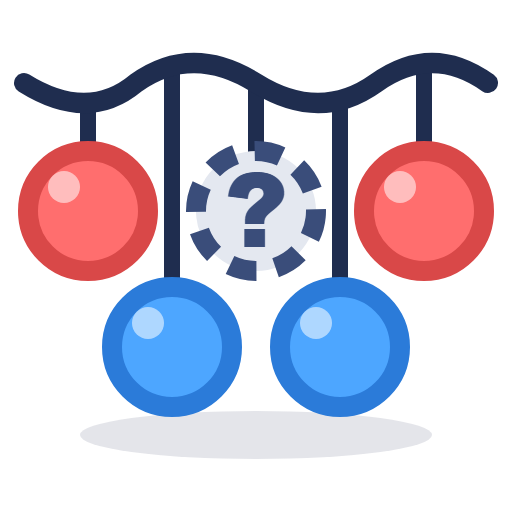
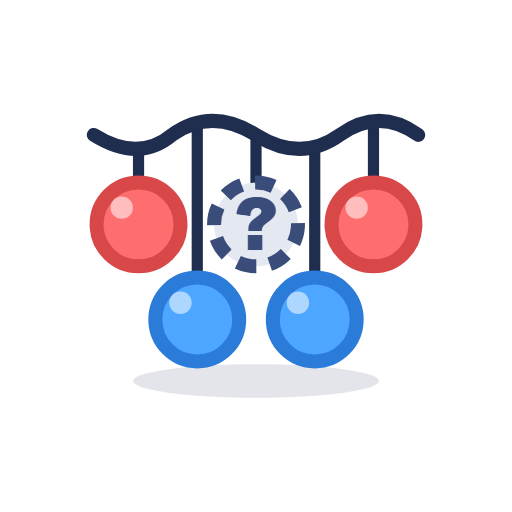
chore: Desen Bulmacası sürüm notunu ekle, ürün simgesini %70 ölçüye getir

diff --git a/store/robi-codes/listing/en-US.md b/store/robi-codes/listing/en-US.md
@@ -37,6 +37,7 @@ Privacy policy: https://sezertanci.github.io/robi-codes/privacy.html
 ## Sürüm notu (1.5.0)
 
 - New game: Variable Box. Children put a number in the box and the robot walks that many squares; by raising and lowering the number they discover what a variable is.
+- New game: Pattern Puzzle. Children find the repeating pattern in the lamps and fill in the missing ones; in the last group they program the pattern themselves with a Repeat block.
 - The first level of each difficulty group can be tried for free. All 20 levels unlock with a one-time purchase.
 - Buttons now make a click sound and the robot makes a step sound as it walks. Sound can be turned off in Settings.
 

diff --git a/store/robi-codes/listing/tr-TR.md b/store/robi-codes/listing/tr-TR.md
@@ -37,6 +37,7 @@ Gizlilik politikası: https://sezertanci.github.io/robi-codes/privacy.html
 ## Sürüm notu (1.5.0)
 
 - Yeni oyun: Değişken Kutusu. Çocuk kutuya bir sayı koyar, robot o kadar kare yürür; kutudaki sayıyı artırıp azaltarak değişken kavramını tanır.
+- Yeni oyun: Desen Bulmacası. Çocuk lambalardaki tekrar eden deseni bulur, eksik lambaları tamamlar; son grupta deseni Tekrarla bloğuyla kendisi programlar.
 - Her zorluk grubunun ilk seviyesi ücretsiz denenebilir. 20 seviyenin tamamı tek seferlik satın alımla açılır.
 - Tuşlara basınca tıklama sesi, robot yürürken adım sesi çıkar. Ses Ayarlar'dan kapatılabilir.
 
